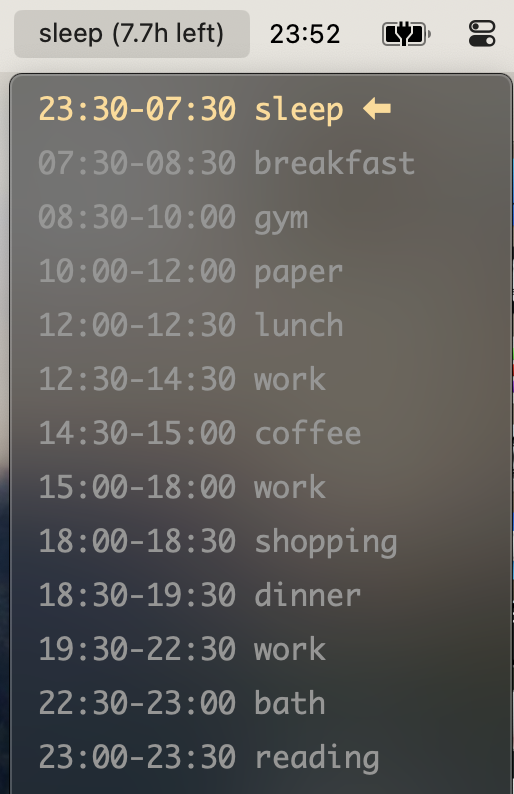
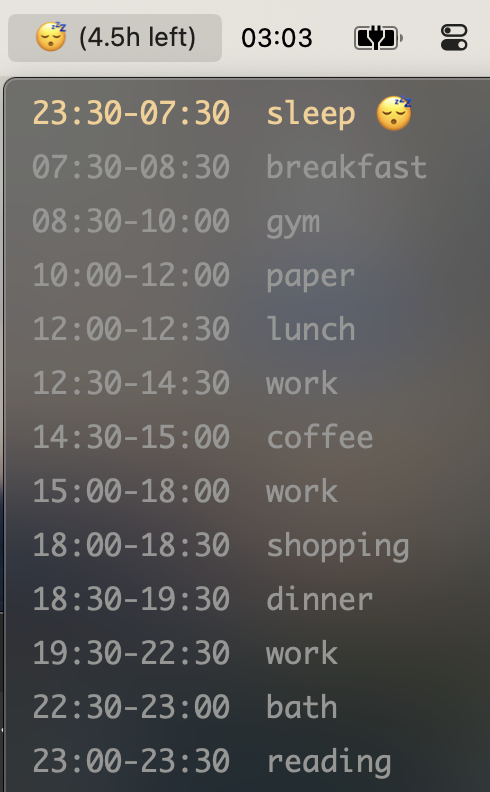
[New] Readme for v2.0 ready!

diff --git a/README.md b/README.md
@@ -1,4 +1,4 @@
-Timetable a plugin for [xbar](https://github.com/matryer/xbar) to quickly show in your macOS menu bar the current event of your daily timetable. Your full timetable will also be displayed in the popped-up menu.
+Timetable a plugin for [xbar](https://github.com/matryer/xbar) to quickly show in your macOS menu bar the current event of your daily timetable. Your full timetable will also be displayed in the pop-up menu.
 
 ![Timetable plugin in action](docs/timetable.png)
 
@@ -28,29 +28,20 @@ ln -s path/to/timetable.1m.py timetable.1m.py
 ## Customize Your Timetable
 Your timetable should be made as a CSV file, where each line is in the format of 
 ```
-<Begin Time>,<End Time>,<Event Name>
+<Begin Time>,<End Time>,<Event Name>,[<Event Emoji>]
 ```
-
-For example:
-
+The column of emoji is optional, i.e. each line of the following CSV text are valid:
 ```CSV
-23:30,07:30,sleep
-07:30,08:30,breakfast
+23:30,07:30,sleep,😴
+07:30,08:30,breakfast,
 08:30,10:00,gym
-10:00,12:00,paper
-12:00,12:30,lunch
-12:30,14:30,work
-14:30,15:00,coffee
-15:00,18:00,work
-18:00,18:30,shopping
-18:30,19:30,dinner
-19:30,22:30,work
-22:30,23:00,bath
-23:00,23:30,reading
 ```
+As default, the emoji will be displayed in the menu bar if given. For more examples of CSV sheets, see [examples](examples/).
 
 The path to the CSV file needs to be configured in the xbar panel:
 ![configure xbar variables](docs/configuration.png)
+
+Besides the file path, there are several more customizable variables could be configured in the panel, including font, font size and emoji / remaining time display.
 
 Refresh the xbar plugin (by clicking the top-left button) to make the configuration work!
 
